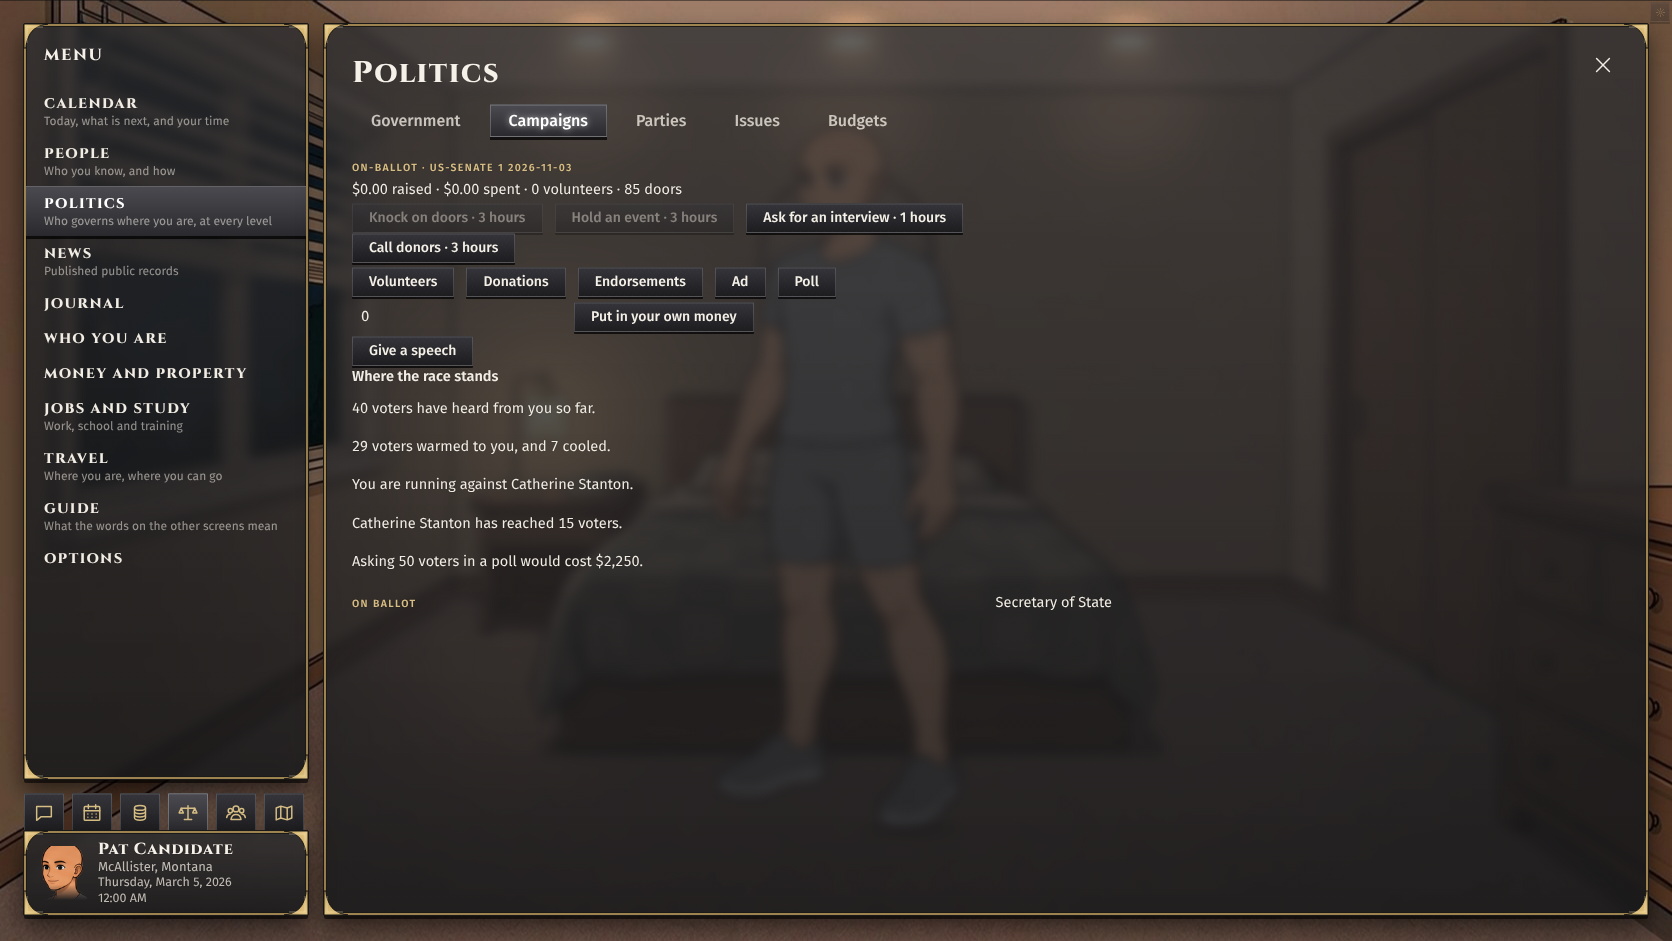
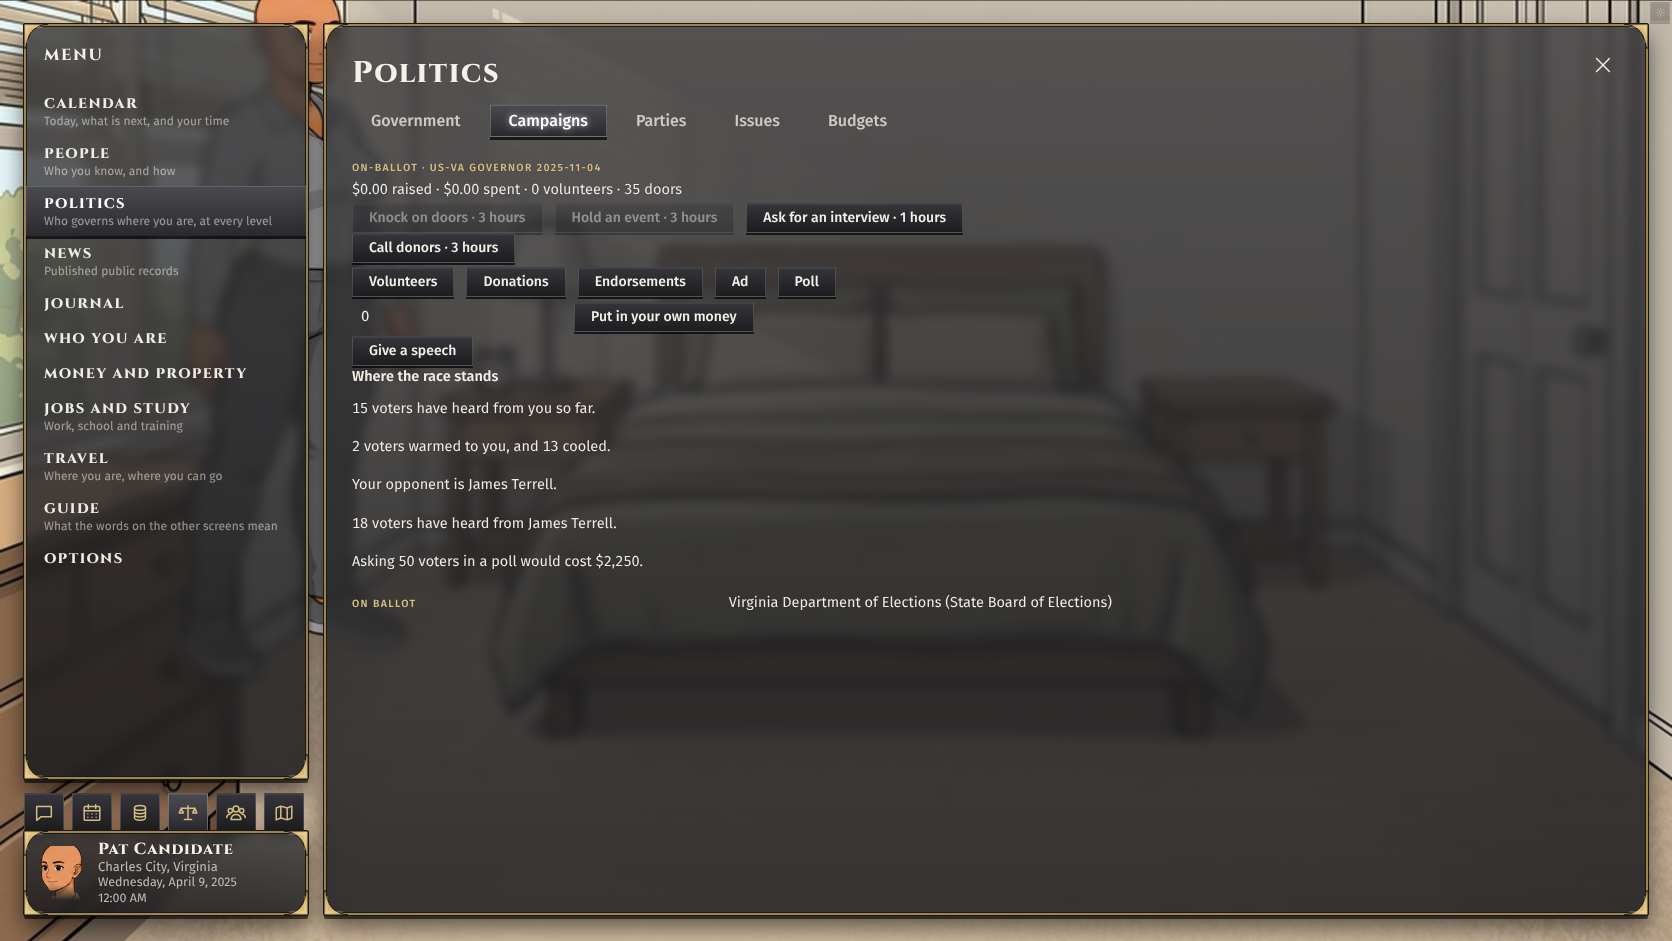
Race line: words through the English engine, one opponent in the singular
The campaign-standing lines are rendered by the engine's renderLine with
grade holds and record sources, not a separate picker. One opponent reads
"Your opponent is ..."; the poll date reads in words; the poll tally names
candidates only (no hand-written undecided label). The poll's sample is
the TUNABLE campaign parameter pollSampleSize.

Claude-Session: https://claude.ai/code/session_01Dq6vUQeMWH9X4Ks4dBkdDt

diff --git a/src/bench/campaign.ts b/src/bench/campaign.ts
@@ -39,11 +39,11 @@ import {
 } from "../director/speech-builder";
 import { campaignParameter } from "../core2/campaign-views";
 import { backdropFile, stagePeople } from "./scene";
-import { dollarsOf, nameList, standingLine } from "./race-words";
+import { dateWords, dollarsOf, nameList, standingLine } from "./race-words";
 import scenePlaces from "./data/scene-places.json" with { type: "json" };
 
 /** The voters a poll asks when the player commissions one from the Campaigns screen. */
-const POLL_SAMPLE = 50;
+const POLL_SAMPLE = campaignParameter("pollSampleSize");
 
 const ELECTIONS = "core2-elections-v1";
 const CAMPAIGNS = "core2-campaigns-v1";
@@ -201,51 +201,55 @@ function raceStanding(
   const others = causes.filter((who) => !who.you);
   const id = filing.id;
   const perInterview = campaignParameter("pollCostPerInterviewMinor");
-  const nameOf = (candidateId: string) =>
-    causes.find((who) => who.candidateId === candidateId)?.name ??
-    (candidateId === "undecided"
-      ? "undecided"
-      : candidateId === "no-opinion"
-        ? "no opinion"
-        : candidateId);
+  const line = (
+    move: string,
+    recordId: string,
+    slots: Readonly<Record<string, string | number>>,
+  ) => standingLine(core.seed, filing.personId, move, recordId, slots);
   return [
     mine && mine.reached > 0
-      ? standingLine("reached", id, { reached: mine.reached })
-      : standingLine("reached-none", id, {}),
+      ? line("reached", id, { reached: mine.reached })
+      : line("reached-none", id, {}),
     ...(mine && mine.reached > 0
       ? [
-          standingLine("moved", id, {
+          line("moved", id, {
             warmer: mine.warmer,
             cooler: mine.cooler,
           }),
         ]
       : []),
     others.length
-      ? standingLine("opponents", id, {
+      ? line(others.length === 1 ? "opponent-one" : "opponents", id, {
           opponents: nameList(others.map((who) => who.name)),
         })
-      : standingLine("opponents-none", id, {}),
+      : line("opponents-none", id, {}),
     ...others
       .filter((who) => who.reached > 0)
       .map((who) =>
-        standingLine("opponent-reached", `${id}|${who.candidateId}`, {
+        line("opponent-reached", `${id}|${who.candidateId}`, {
           name: who.name,
           reached: who.reached,
         }),
       ),
     ...(lastPoll
       ? [
-          standingLine("poll-result", id, {
-            date: lastPoll.date,
+          line("poll-result", id, {
+            date: dateWords(lastPoll.date),
             contacted: lastPoll.contacted,
+            // The candidates' answers, by name; the bank has no words for
+            // the undecided yet, so they are left out of the tally.
             tally: Object.entries(lastPoll.answers)
+              .flatMap(([who, n]) => {
+                const name = causes.find((c) => c.candidateId === who)?.name;
+                return name ? [[name, n] as const] : [];
+              })
               .sort((a, b) => b[1] - a[1] || a[0].localeCompare(b[0]))
-              .map(([who, n]) => `${nameOf(who)} ${n}`)
+              .map(([name, n]) => `${name} ${n}`)
               .join(", "),
           }),
         ]
       : []),
-    standingLine("poll-cost", id, {
+    line("poll-cost", id, {
       sample: POLL_SAMPLE,
       cost: dollarsOf(POLL_SAMPLE * perInterview),
     }),

diff --git a/src/bench/race-words.ts b/src/bench/race-words.ts
@@ -1,6 +1,9 @@
-// How the Campaigns screen says where a race stands: sentences from the
-// English engine's campaign-standing bank, filled from the campaign's records.
+// How the Campaigns screen says where a race stands: the English engine
+// words each move from the campaign-standing bank, its facts filled from the
+// campaign's records and each fact citing the record it came from.
 import standing from "../../data/english/parts/campaign-standing.json" with { type: "json" };
+import { renderLine, type Fact, type Variant } from "../english/bank-line";
+import { heldByGrades } from "../english/english-grades";
 
 interface StandingPart {
   key: string;
@@ -8,6 +11,19 @@ interface StandingPart {
   text: string;
   shippable: boolean;
 }
+
+const PARTS = standing.parts as StandingPart[];
+const VERSION = `campaign-standing:${PARTS.length}`;
+
+/** The bank's shippable, ungraded-down parts for a move, as engine variants. */
+const variantsOf = (move: string): Variant[] =>
+  PARTS.filter(
+    (part) => part.move === move && part.shippable && !heldByGrades(part.key),
+  ).map((part) => ({
+    key: part.key,
+    pieceKey: part.key,
+    text: part.text.replace(/\{(\w+)\}/g, "{{$1}}"),
+  }));
 
 /** "Ann, Bo and Cy": a list of names the way people say it. */
 export function nameList(names: readonly string[]): string {
@@ -23,25 +39,43 @@ export const dollarsOf = (minor: number): string =>
     maximumFractionDigits: minor % 100 === 0 ? 0 : 2,
   });
 
-const hash = (text: string): number =>
-  [...text].reduce((h, c) => (h * 31 + c.charCodeAt(0)) >>> 0, 7);
+/** A record's date as people write it: "March 3, 2026". */
+export const dateWords = (iso: string): string =>
+  new Date(`${iso}T12:00:00Z`).toLocaleDateString("en-US", {
+    month: "long",
+    day: "numeric",
+    year: "numeric",
+    timeZone: "UTC",
+  });
 
 /**
- * One sentence of the bank for a move, its slots filled from the records. The
- * wording is picked by a stable hash of the record it speaks of, so the same
- * race always reads the same.
+ * One sentence for a move, said to the player, from the engine's stable pick
+ * among the bank's wordings; every slot is a fact citing its record.
  */
 export function standingLine(
+  seed: string,
+  playerId: string,
   move: string,
   recordId: string,
   slots: Readonly<Record<string, string | number>>,
 ): string {
-  const parts = (standing.parts as StandingPart[])
-    .filter((part) => part.move === move && part.shippable)
-    .sort((a, b) => a.key.localeCompare(b.key));
-  const part = parts[hash(`${recordId}|${move}`) % Math.max(1, parts.length)];
-  if (!part) return "";
-  return part.text.replace(/\{(\w+)\}/g, (_, slot: string) =>
-    String(slots[slot] ?? ""),
+  const facts: Record<string, Fact> = Object.fromEntries(
+    Object.entries(slots).map(([slot, value]) => [
+      slot,
+      { text: String(value), sourceRecordIds: [recordId] },
+    ]),
+  );
+  return (
+    renderLine({
+      seed,
+      surface: "menu",
+      holderId: playerId,
+      bankKey: `campaign-standing:${move}`,
+      version: VERSION,
+      variants: variantsOf(move),
+      facts,
+      momentKey: `${recordId}|${move}`,
+      fallbackSourceId: recordId,
+    })?.text ?? ""
   );
 }

diff --git a/docs/play-first/PROGRESS.md b/docs/play-first/PROGRESS.md
@@ -6,6 +6,7 @@ The handoff log. Newest first. Every agent adds one line before it stops, in the
 
 ## Log
 
+- 2026-10-25 22:10 · Claude (m0-m2 lead) · play-stop-18-race-line-unreadable · play-first/play-stop-18-race-line-unreadable · see the PR head · PR opened · Words reviews the new campaign-standing bank; the campaigns lead may look at door contacts cooling most voters · none
 - 2026-10-25 18:25 · CTO verifier/Claude · lane bookkeeping · main · see the head · pushed · #5963 merged, the lane is live and the Oct 24 freeze is lifted. The three dead ends: #5971 (play-stop-23, branch play-first/play-stop-23-job-offer-hold-locks-the-game, a Claude cloud session, last push 16:19 UTC, waits on the owner's screenshot yes), #6062 (play-stop-21, branch play-first/play-stop-21-ballot-stuck-on-first-page, draft, a Claude cloud session, last push 18:10 UTC), #6041 (play-stop-22-a, branch claude/quirky-ride-vrwwz4-play-stop-22, the m0-m2 lead's session, last push 18:11 UTC). ORDER.md now carries a state bracket on every line. The next free item by ORDER is play-first-07-no-random-people-in-rooms (line 9); lines 1 to 8 are in PR, claimed, or after a sibling · none
 - 2026-10-24 18:32 · CTO subagent/Claude Opus · lane built (LAW, README, ORDER, 61 items, skill, pool check) · cto/play-first-lane · see the PR head · PR opened #5963 · the CTO merges #5963; then the next agent takes line 1 of ORDER.md (play-stop-23-job-offer-hold-locks-the-game) · none
 - 2026-10-24 18:04 · CTO/Claude Opus · lane opened · cto/play-first-lane · see the PR · PR opened · the next agent takes item 1 of ORDER.md (play-stop-23-job-offer-hold-locks-the-game) · none
